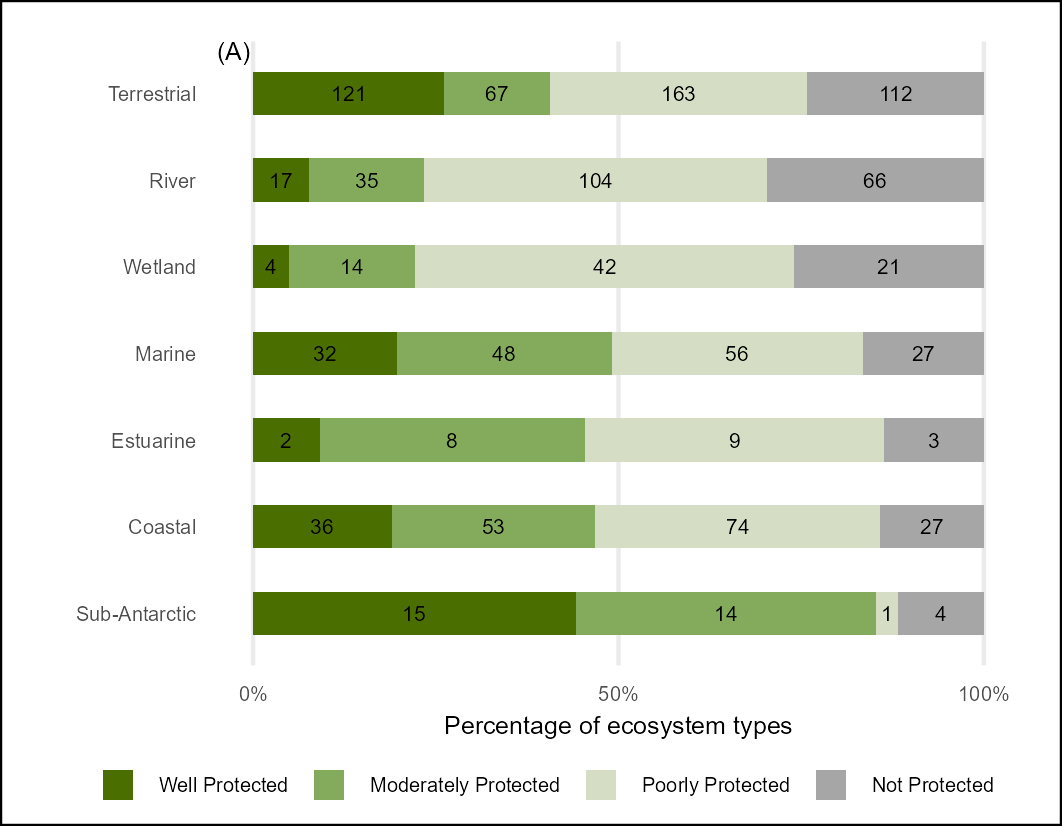
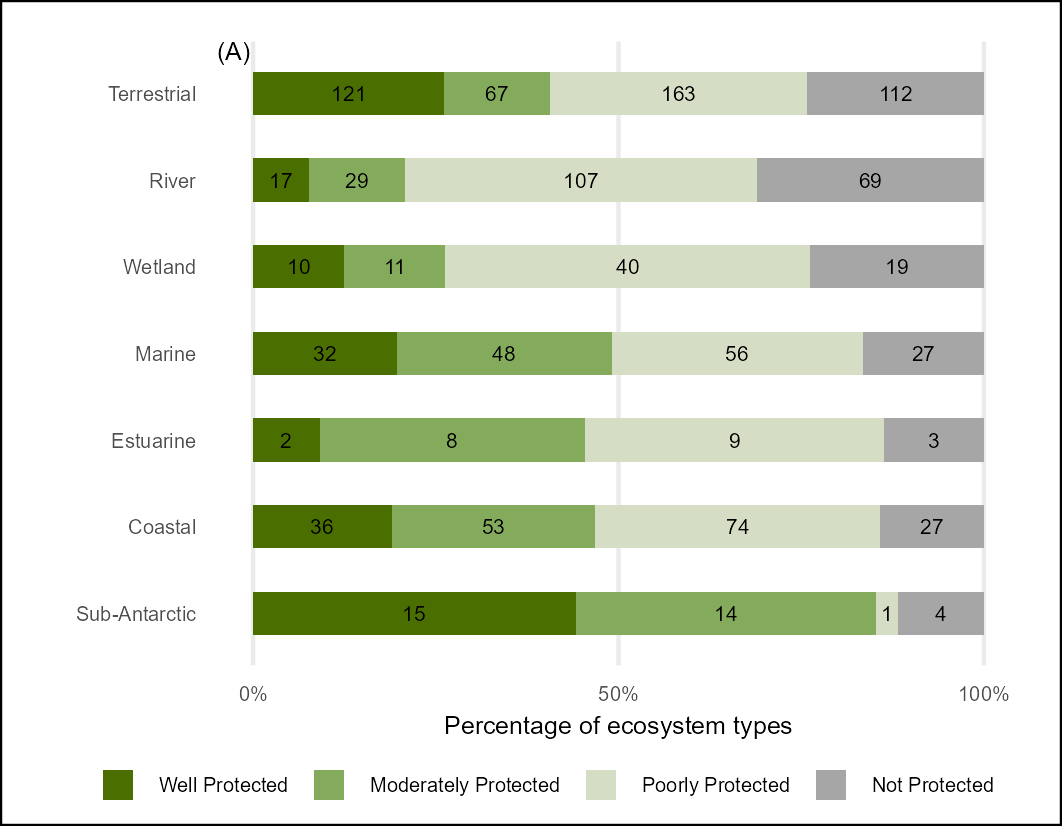
final plots for booklet - wetlands update on 28 August

diff --git a/README.md b/README.md
@@ -8,15 +8,15 @@ Terrestrial, marine, estuarine and freshwater assessments completed in 2025, the
 
 **GitHub Repositories for each assessment detail the assessment workflows:**
 
-<https://github.com/askowno/RLE_terr/>
+<https://github.com/askowno/RLE_terr>
 
-<https://github.com/askowno/RLE_est/>
+<https://github.com/askowno/RLE_est>
 
-<https://github.com/askowno/RLE_wet/>
+<https://github.com/askowno/RLE_wet>
 
-<https://github.com/askowno/RLE_riv/>
+<https://github.com/askowno/RLE_riv>
 
-Marine:
+<https://gitlab.com/nba_2025/ecosystem_assessment/threat_status>
 
 <https://github.com/lrharris/nba2025_coast>
 
@@ -26,23 +26,15 @@ After importing the results for each realm they were combined in R tidyverse and
 
 **Using RLE for all realms:**
 
-Integrated ecosystem results : [outputs/rle_count_per_realm.csv](outputs/rle_count_per_realm.csv); [outputs/rle_ext_per_realm.csv](outputs/rle_ext_per_realm.csv)
-
-**Using van Deventer et al., 2019 methods for Wetlands and Rivers:**
-
-Integrated ecosystem results : [outputs/rle_count_per_realm_sa.csv](outputs/rle_count_per_realm_sa.csv) ; [outputs/rle_ext_per_realm_sa.csv](outputs/rle_ext_per_realm_sa.csv)
+Integrated ecosystem results : [outputs/rle_count_per_realm.csv](outputs/rle_count_per_realm.csv); & [outputs/rle_ext_per_realm.csv](outputs/rle_ext_per_realm.csv)
 
 **Ecosystem Protection Level for all realms:**
 
-Integrated ecosystem results: [outputs/epl_count_per_realm.csv](outputs/epl_count_per_realm.csv);[outputs/epl_ext_per_realm.csv](outputs/epl_ext_per_realm.csv)
+Integrated ecosystem results: [outputs/epl_count_per_realm.csv](outputs/epl_count_per_realm.csv); & [outputs/epl_ext_per_realm.csv](outputs/epl_ext_per_realm.csv)
 
 | Count of Types - RLE approach all realms | Extent of Types - RLE approach all realms |
-|----|----|
+|------------------------------------|------------------------------------|
 | ![](outputs/rle_count_plot.png) | ![](outputs/rle_ext_plot.png) |
 | ![](outputs/epl_count_plot.png) | ![](outputs/epl_ext_plot.png) |
-
-| Count of Types per realm (ETS riv and wet) | Extent of Types per realm (ETS riv and wet) |
-|----|----|
-| ![](outputs/rle_count_plot_sa.png) | ![](outputs/rle_ext_plot_sa.png) |
 
 Note: High resolution pdf versions of these plots, with embedded fonts, can be found within the outputs folder
